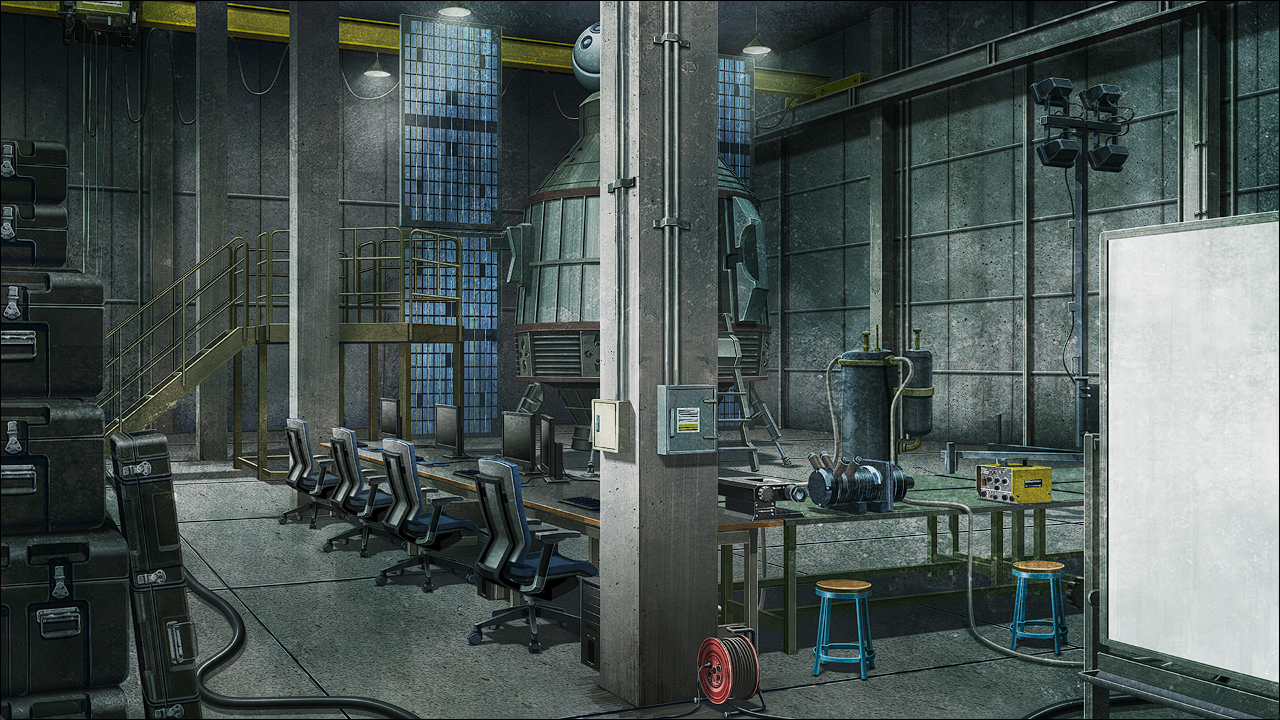
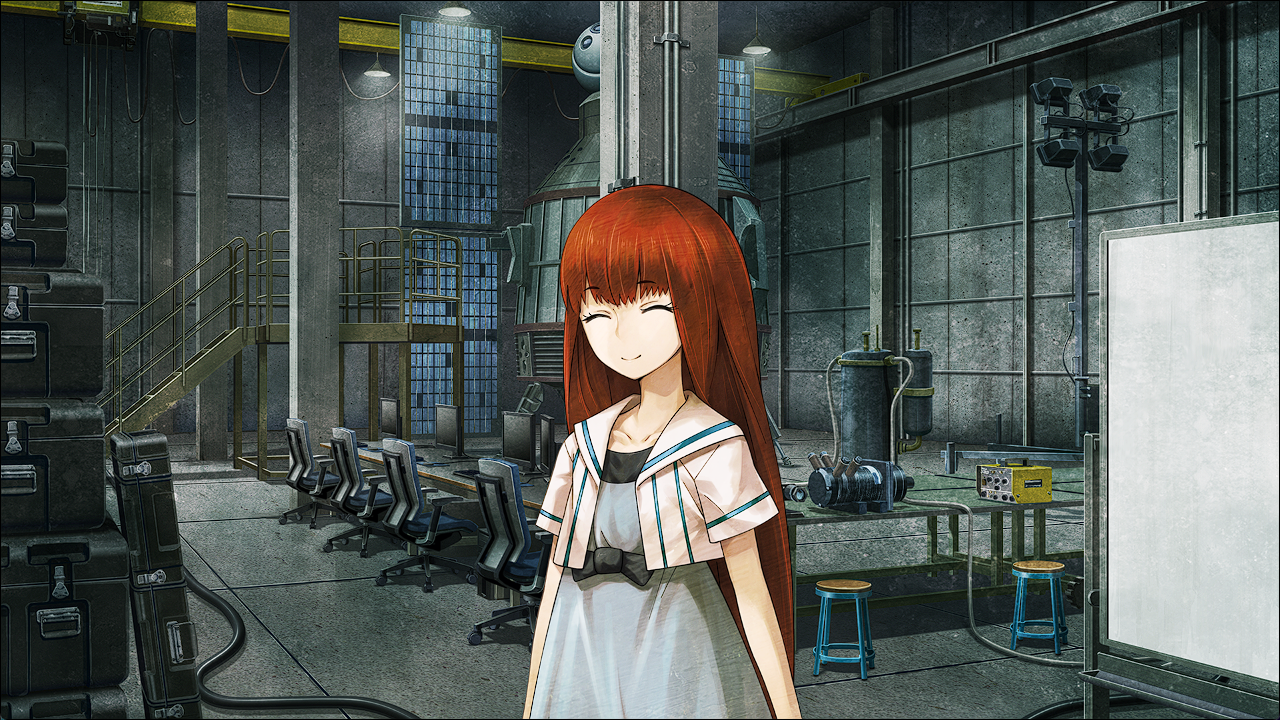
update 0126

Changed region(s): [[0.4062, 0.2444, 0.625, 1.0]]

diff --git a/article/sg0/doc/0126.md b/article/sg0/doc/0126.md
@@ -1,96 +1,137 @@
 # 盟誓的文艺复兴 - 04
 > 1.055821  
-> [ 2036/03/07 ] 铃羽带冈伦来到了一个地方，在那里见到了中年的桶子。这才发现原来现在居然是 2036 年。可是冈伦不是应该在 2025 年去世的吗？  
+> [ 2036/03/07 ] 幼时的篝来访，冈伦与她交谈，但没有说出自己的名字。桶子把冈伦醒来的消息通知真由理等人，结果发现她们中计外出寻找食材，遭遇袭击。冈伦赶到现场。琉华子为保护众人重伤，在冈伦怀中去世。至死他都想再见冈伦一面，一直以为自己被排除在外，想要成为冈伦真正的伙伴。  
 
 | [←prev](./0125) | [menu](../) | [next→](./0127) |
 
 ---
 
-“在阴暗中，响起了两个人冰一样的脚步声。”  
-“在这里……”  
-“在我说出我的名字之后，铃羽用很惊讶的表情，观察了我一阵子。”  
-“终于，她在和什么地方取得联络之后，态度一变，让我和她一起去。”  
-“尽管如此，走路的时候，我还是被蒙住了眼睛。”  
-“所以，我完全不知道是怎么过来的，也不知道这是哪里。”  
-“停下。”  
-“我遵从她说的话。”  
-“听到敲门的声音，终于知道了在那里有一堵门。”  
+突然，外面传来敲门声，有人过来了。铃羽靠近了门。  
 “你好萌好萌。”  
-“抓住我的心。”  
-“进来。”  
-“这么看，刚才的应该是暗号。”  
-“设定这种傻瓜一样的暗号的人，在我认识的人里估计就只有一个了。”  
+“心动动。”  
+还是那个毫无紧迫感的暗号，铃羽把门锁打开，进来的是一位年幼的少女。  
 
 ![](../static/image/0126-1.png)
 
-“听到门锁打开的沉重声音，门被打开，在我眼前展现出的是一间被昏暗的光芒所包裹的房间。”  
-“屋子里有着各种各样破铜烂铁一样的机械，使得房间显得格外狭窄。”  
-“墙上并排摆着各种各样的仪表。”  
-“在那前面坐着的一位男性，直直的看着我。”  
-“太好了。终于醒了呢，冈伦……”  
-“这是谁？”  
-“为什么知道我的名字？”  
-“年纪应该是 40 多岁的样子吧。”  
-“良好的体格，任着薄薄的胡子尽情生长。”  
-“眼镜后面的瞳孔闪烁着锐利又柔和的光芒。”  
-“虽然觉得在哪里见过的感觉……”  
-“那个……你是……？”  
-“讨厌啊。竟然把我忘记了？不管怎样你都太薄情了啊，冈伦。”  
-“这个语调。”  
-“然后，这个声音……”  
-“只想到了一个人物。”  
-“不，但是怎么会——”  
+“桶子叔叔，铃羽姐姐，嘟嘟噜\~”  
+“篝，我不是说过，除了有要紧事不要来这里吗？”  
+篝……这个孩子，是小时候的篝吗？  
+“对不起……但是妈妈她们都出门了，没有回来嘛。”  
+“嘛嘛，也没必要那么指责她啦。”  
+“爸爸又这么惯着她，这种事情不好好说清楚不行。”  
+无视和 25 年前没什么变化的父女，我的目光看向了篝。篝也好像注意到了我。  
+“你好。”  
+“……你好。”  
+“叔叔是谁？”  
+“我吗？我是……啊对，我是你妈妈的朋友。”  
+思考了半天该怎么说，结果我还是没有说出我的名字。  
+“真由理妈妈的？”  
+“啊啊，是的……”  
+“诶……”  
+“妈妈温柔吗？”  
+“嗯！”  
+“喜欢妈妈吗？”  
+“嗯！最——喜欢了！！”  
+“这样啊……”  
+看篝的表情，喜欢的感情像是要满溢出来。真由理一定很耗费心血在培养她吧。她一直以来都接受着真由理满满的爱。但是……她会在这之后跳往过去，和最喜欢的真由理妈妈分别，一个人在过去的世界里……然后被他们抓住，被当作实验品。  
+
+“话说爸爸，叔叔已经醒了的事，你告诉真由姐她们了吗？”  
+“啊，不好！完全忘记了，得早点告诉她们！”  
+桶子取出了小型无线通讯器一类的东西。  
+“这里是『巴雷尔·提托』，请回答，这里是『巴雷尔·提托』。”  
+“这里是『与星尘的握手』，请讲。”  
+扬声器传出来的，正是真由理的声音。虽然和那个时候比起来，声音要沉着一些，但这肯定是真由理的声音没有错。说起来，『与星尘的握手』什么的……  
+“妈妈——！”  
+“啊，篝酱，在桶子叔叔那里吗？”  
+“嗯。”  
+“叔叔他有非常重要的事情要做，不要老是打扰他哦？”  
+“好——”  
+“比起这事，真由喜，有一条特别新闻！”  
+“特别新闻？”  
+“啊啊……用心听好，冈伦他……醒来了。”  
+“啊……!真的吗？真的……冈伦他……？”  
+“怎么了吗，真由喜？”  
+“冈伦……冈伦他……”  
+“难不成，冈部先生他……醒来了吗！？”  
+“真的！？冈伦他，起来了喵！？”  
+无线电的另一侧，陆续传来了过往熟悉的声音。从声音上感觉，我所知道的大家还真是没怎么变。  
+“所以，你们三人，还是快点回来的好。”  
+“呜……”  
+“真由喜？怎么了，真由喜！？”  
+“没事，真由喜因为太高兴，发不出声音了喵。”  
+“嘛，也没办法，毕竟最希望冈伦复活的，正是真由喜啊。  
+ 总之，大家赶快先回来。”  
+“了解喵，取得食材后马上就回来。”  
+
+在喜悦的声音中，我偶然注意到铃羽的表情充满阴郁。  
+“……怎么了，铃羽？”  
+“为什么……真由姐他们，要出去找食材？明明今天是没有预定的……”  
+“诶？”  
+“不是喵，确实是今天啊，昨天晚上来过联络……”  
+“……糟糕！那是陷阱！大家，现在马上回——”  
+“呀啊！？”  
+铃羽的话，被扬声器那边的悲鸣盖过了。  
+“怎么了！？发生什么事了！？”  
+“我们被袭击了！敌袭——！”  
+“可恶——！！”  
+“真由理酱！菲莉丝！快点逃！这里由我来处理！”  
+“但是，这样的话琉华喵就！”  
+“我没问题的，快！”  
+“不可以，琉华君！！”  
+“琉华喵！！！”  
+“爸爸！！”  
+“哦！！”  
+桶子向最早跑起来的铃羽追去。  
+“等一下，桶子！我也一起去！”  
+“但是……冈伦，你的身体……”  
+“……让我去吧。拜托了……”  
+桶子稍微停了一下，犹豫了一瞬，马上点点头，让我扶着他的肩膀。虽然桶子的身材比起以前要瘦削了不少，但体格还是那么庞大。我以他的肩膀作为支撑，紧追在铃羽后面。  
+
+在桶子的支撑下走了一段时间，终于看见了几个人影。或许前方正在进行着激烈的战斗——虽然做好了这样的觉悟，但周围却一片寂静。在对面的方向，有几个士兵装扮的人倒在地上。铃羽站在前方，还有两个女人蹲在她旁边。然后，在她们的脚边——  
+“唔……”  
+“琉华……子……”  
+只要看一眼就明白了，那里躺着的琉华子。  
+“冈……伦……？”  
+“冈伦……琉华喵……琉华喵他……” 
+真由理和菲莉丝原本正注视着倒在地上的琉华子，见我过来抬起了脸庞。她们都是一副饱经风霜的憔悴模样。  
+“啊……啊……”  
+“冈部……先生……？”  
+虽然变得精悍了许多，但那幅柔和得像女性一样的面容还没有变。琉华子用他已经无法聚焦的双眼看向了我。  
+“琉华子……”  
+“真的是…冈部先生……吗？”  
+“啊啊……琉华子……是我……”  
+“呵呵……这种称呼方式……看来是真的冈部先生了……咳！”  
+琉华子咳嗽了几下，嘴角留下了鲜红的血。在他的右胸，鲜血还在流淌着，染红了衣服，并在地面上扩散开来，一看就知道是致命伤。  
+“太好了……刚刚的话……看来不是，骗人的呐……”  
+“啊啊……多亏了你们，我才能这样醒来……谢谢……”  
+琉华子的手像是要抓住什么的样子伸向空中。也许在他的眼中，已经看不到我的身影了。我握住的那只手，以惊人的速度冷了下来。  
+“冈、部……先生……”  
+“怎么了？”  
+“我……做到了……”  
+“啊啊……”  
+“多亏了……凶真师傅教的……清心斩魔流……才能，保护真由理酱……与大家……”  
+“啊，嗯……”  
+“我……成为……伙伴，了吧……？  
+ 成为了……大家……真正的伙伴，是吧……？”  
+“笨蛋……你从一开始就一直是……我们的伙伴啊……”  
+琉华子冰冷的手伸了过来，抚上了我的脸颊——然后露出了灿烂的笑容。  
+“……诶嘿嘿……真高兴啊……”  
+说完这句话，霎时，我脸上的触感消失了。  
+“琉华子！琉华子！？”  
+“琉华……君……？”  
+冰冷的手无力地垂落在满是瓦砾的地面上。  
+“啊……啊……”  
+“琉华喵！！！”  
+他就这样不再动弹了。  
+“啊……啊啊……”  
+“怎么……会这样……”  
+“……太好了，琉华君，一直想见冈伦呢。最后能见上一面，真的是，太好了……”  
+太好了……？这叫太好了……？这种结局 ……？真由理这句话，终于让我明白了，在我沉睡的这 25 年里，他们到底经历了多么残酷的、犹如地狱般的时间。  
+“漆原琉华……你刚刚的战斗，真的很出色……我们，被你救了……谢谢你，请安息吧……”  
+“咕……这种、这种事，太过分了……  
+ 呜……啊啊啊啊啊啊啊啊——!”  
 
 ![](../static/image/0126-2.png)
-
-“难道是……桶子……吗？”  
-“很害怕的说出来了之后，男性笑了出来。”  
-“太好了。还记得我啊。我还以为你已经彻底忘记了呢。”  
-“桶子……你真的是桶子吗？”  
-“这样的 nice guy，除了我就没有谁了吧。对吧，铃羽？”  
-“你要是再瘦一点我也不是不能承认。”  
-“不要这么说啦。就算这样我也比年轻的时候瘦了很多哦。”  
-“确实，在我面前的桶子，确实比我认识的桶子瘦了好多。”  
-“虽然这么说，爸爸……你的用语是不是有点奇怪？”  
-“我也很久没有这么说过话了啊。但是对冈伦的话还是觉得这么说话比较容易啊。”  
-“但是比起这件事情更加让我不解的是年龄。”  
-“不管怎么看都变成中年人了。”  
-“就算再怎么看，也像四十岁多的脸。”  
-“…………？”  
-“就在那时，房间角落的衣架进入了我的眼帘。”  
-“在那镜子里，一个没有见过的男人站在那里。”  
-“和桶子一样，40 多岁的男性。”  
-“那家伙用他那消瘦阴沉的脸一直盯着我。”  
-“慢慢的试着举起了右手。”  
-“就像模仿我一样，那个男性也慢慢地举起了左手。”  
-“桶子，告诉我一下……”  
-“不管什么请问。”  
-“现在是……哪年……？”  
-“桶子从微笑瞬间转变成了认真的表情，然后回答了我。”  
-“2036 年，世界正处在战乱之中。”  
-
-桶子详细地向我说明了现况。  
-“那，现在真的是 2036 年吗……”  
-“就是这样。”  
-“不管怎样都不敢相信。”  
-“但是桶子的身影，和我自己的样子，已经说明了一切。”  
-“2036 年——”  
-““这样下去，不到十年，第三次世界大战就会开始”这是铃羽说过的。”  
-“并且 57 亿人的生命就这样结束，东京的人口只剩下了十分之一。”  
-“在那之后，尽管第三次世界大战终结，但混乱仍在继续，在日本境内——不，在世界各地，2036 年都还持续着战火。”  
-“这就是我刚才看到的光景吗……”  
-“但是，为什么关于这些我什么都不记得？”  
-“现在我的脑海里的记忆停留在 2011 年。”  
-“在那之中，关于这大约 25 年的记忆一件都没有。”  
-“在那一天——从篝的脑中消抹除了红莉栖的那一天，就是我的最后的记忆了。”  
-“还有，我从铃羽那里听说了我会在 2025 年死去，为什么我还活着？”  
-“关于那件事我也想知道，爸爸。”  
-“铃羽附和道。”  
-“我们大家，都听说冈伦叔在十年前就已经死了。”  
-“铃羽铃羽探出身体追问桶子。”  
-“爸，这到底是怎么一回事？难道你骗了我们吗？”  
-“冷静一下，铃羽。我会好好说明的。”  
-“桶子用很怀念的眼神看着我，又开始了说明。”  
 
 
 <br/>
